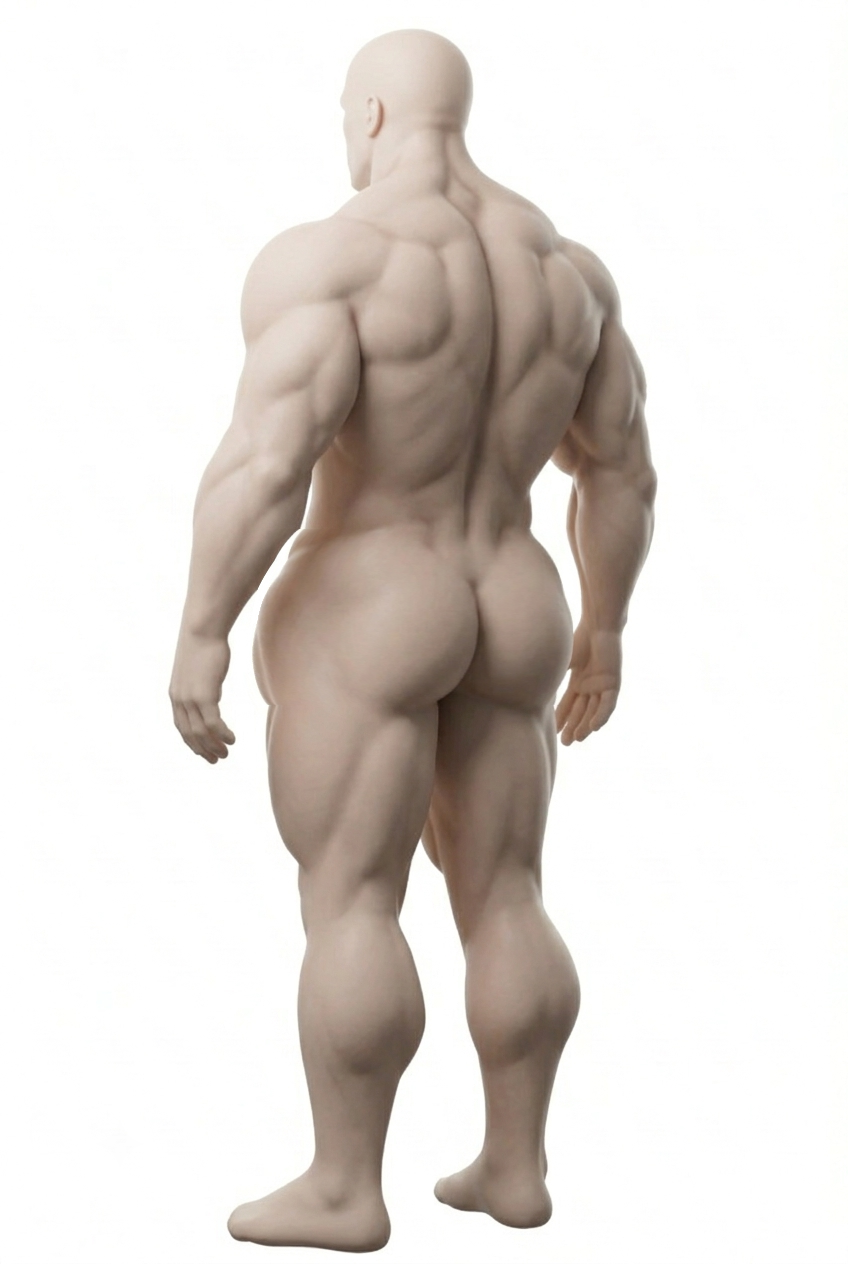
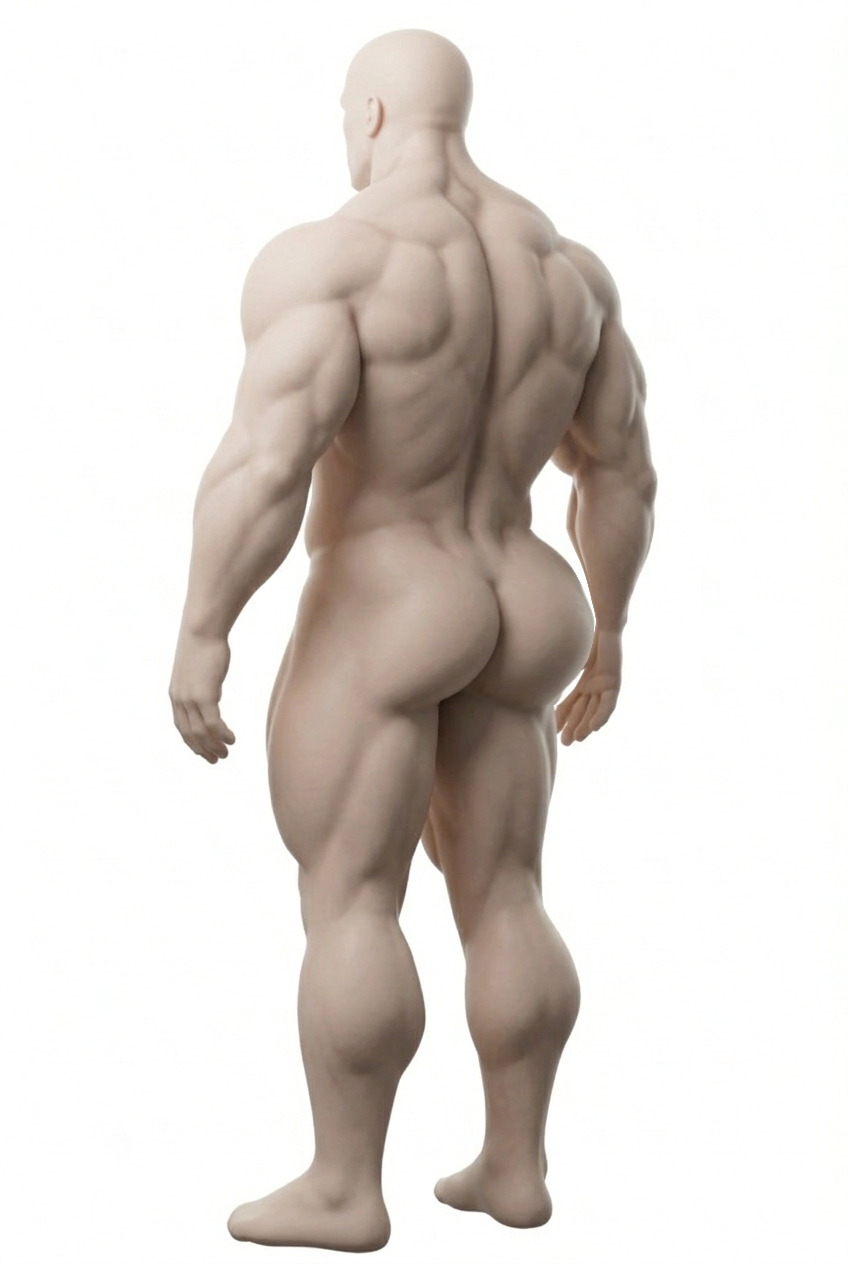
근육 그림: 02 엉덩이 옆선 넘어 둥글게 · 04 뒤쪽으로만 키움
Claude-Session: https://claude.ai/code/session_01BoBwgsWhq9LWGdXHzThg1i

Changed region(s): [[0.2759, 0.4011, 0.4599, 0.5554], [0.4906, 0.432, 0.6132, 0.5554], [0.6439, 0.432, 0.7052, 0.5554]]

diff --git a/문서/자료/근육그림/엉덩이다듬기.py b/문서/자료/근육그림/엉덩이다듬기.py
@@ -1,0 +1,53 @@
+# 엉덩이만 둥글게 (홍겸 님 10-10)
+#  edge 쪽: 엉덩이 바깥이 곧 몸 옆선 → 엉덩이 높이에서만 옆선을 둥글게 밖으로(d) + 안쪽 패인 그늘을 새 옆선까지 밀고 메움
+#  inner 쪽: 엉덩이 바깥이 몸 안의 골(groove) → 몸 옆선(골반 · 앞쪽)은 그대로, 골만 옆선 쪽으로 밀고 메움
+import sys, json, numpy as np
+from PIL import Image
+from scipy import ndimage
+src,dst=sys.argv[1],sys.argv[2]; p=json.loads(sys.argv[3])
+a=np.asarray(Image.open(src).convert('RGB')).astype(float); H,W=a.shape[:2]; xs=np.arange(W)
+g=ndimage.gaussian_filter(a.mean(2),2)
+y0,y1,crack=p['y0'],p['y1'],p['crack']
+cv=lambda pts,y: float(np.interp(y,*zip(*pts)))
+def sil(y,s):
+    r=g[y]<249; x=crack
+    while 0<x<W-1 and r[x+s]: x+=s
+    return x
+HOL={}
+for side in p['sides']:
+    if side['mode']=='edge' and side.get('hollow',True):
+        s_=side['s']; hs=[]
+        for y in range(y0,y1+1):
+            e=cv(side['sil'],y) if 'sil' in side else sil(y,s_)
+            lo,hi=(int(e)+3,int(e)+48) if s_<0 else (int(e)-48,int(e)-3)
+            hs.append(lo+int(np.argmin(g[y,lo:hi])))
+        HOL[s_]=ndimage.median_filter(np.array(hs,float),21); HOL[s_]=ndimage.uniform_filter1d(HOL[s_],15)
+out=a.copy(); M=np.zeros((H,W))
+for y in range(y0,y1+1):
+    w=max(0.0,np.sin(np.pi*(y-y0)/(y1-y0)))**p.get('pow',0.8)
+    ks=[(0,0),(W-1,W-1),(crack,crack+p.get('dC',0)*w)]
+    for side in p['sides']:
+        s=side['s']; e=cv(side['sil'],y) if 'sil' in side else sil(y,s)
+        if side['mode']=='edge':
+            if side.get('hollow',True):
+                h=HOL[s][y-y0]
+            else: h=e-s*20
+            ne=e+s*side['d']*w; nh=h+(ne-h)*(1-side['keep'])*w
+            ks+=[(e+s*side['gap'],e+s*side['gap']),(e,ne),(h,nh)]
+            a0,a1=(ne+1,nh-s*18)
+        elif side['mode']=='fixed':
+            ks+=[(e,e)]; continue
+        else:
+            gr=cv(side['groove'],y); ng=gr+(e-gr)*(1-side['keep'])*w
+            ks+=[(e,e),(gr,ng)]
+            a0,a1=(ng+s*18,e-s*1)
+        M[y,int(min(a0,a1)):int(max(a0,a1))+1]=max(M[y,int(min(a0,a1))],w)
+    ks=sorted(ks,key=lambda k:k[1]); src_k=[k[0] for k in ks]; dst_k=[k[1] for k in ks]
+    sx=np.interp(xs,dst_k,src_k)
+    for c in range(3): out[y,:,c]=np.interp(sx,xs,a[y,:,c])
+body=ndimage.binary_erosion(ndimage.gaussian_filter(out.mean(2),2)<249,iterations=2).astype(float)
+bw=ndimage.gaussian_filter(body,9)+1e-6; bw2=ndimage.gaussian_filter(body,[3,16])+1e-6
+tgt=0.5*np.stack([ndimage.gaussian_filter(out[...,c]*body,9)/bw for c in range(3)],-1)+0.5*np.stack([ndimage.gaussian_filter(out[...,c]*body,[3,16])/bw2 for c in range(3)],-1)
+Ms=ndimage.gaussian_filter(M,4)*body*p['lift']
+out=out*(1-Ms[...,None])+tgt*Ms[...,None]
+Image.fromarray(out.clip(0,255).astype(np.uint8)).save(dst)

diff --git a/문서/작업일지.md b/문서/작업일지.md
@@ -139,3 +139,4 @@
 - 10-10 홍겸 님: 앞 판은 허벅지도 커짐 → 초기화 후 다시: 엉덩이 높이(02: 498~662 · 04: 528~705 줄)에서만 엉덩이 바깥선을 좌우로(02 각 26px · 04 12/24px), 가운데 골 고정, 그 아래 허벅지 줄은 그대로
 - 10-10 홍겸 님: 04(대각) 좋음 · 02 는 몸 옆선(파란 곳) 넓어지면 근육 칠할 때 방해 → 02 다시: 옆선 그대로, 엉덩이 안쪽 패인 그늘(빨간 곳)을 옆선 쪽으로 밀고 옅게 메움(엉덩이패임메우기.py)
 - 10-10 홍겸 님: 04 엉덩이 20% 더(좌우 넓힘 12/24 → 18/38px) · 02 빨간 곳(몸 옆선)까지 패임 없이 채움(keep 0.08 · lift 1.0)
+- 10-10 홍겸 님: 02 = 엉덩이가 옆선을 넘어 둥글게(엉덩이 높이에서만 +20px, 패임 메움, 허벅지 그대로) · 04 = 앞쪽(골반 앞 · 빨간 곳) 옆선은 그대로, 엉덩이를 뒤쪽(그림 왼쪽)으로만 키움(먼 엉덩이 옆선 −40, 가운데 골 −22) — 엉덩이다듬기.py
